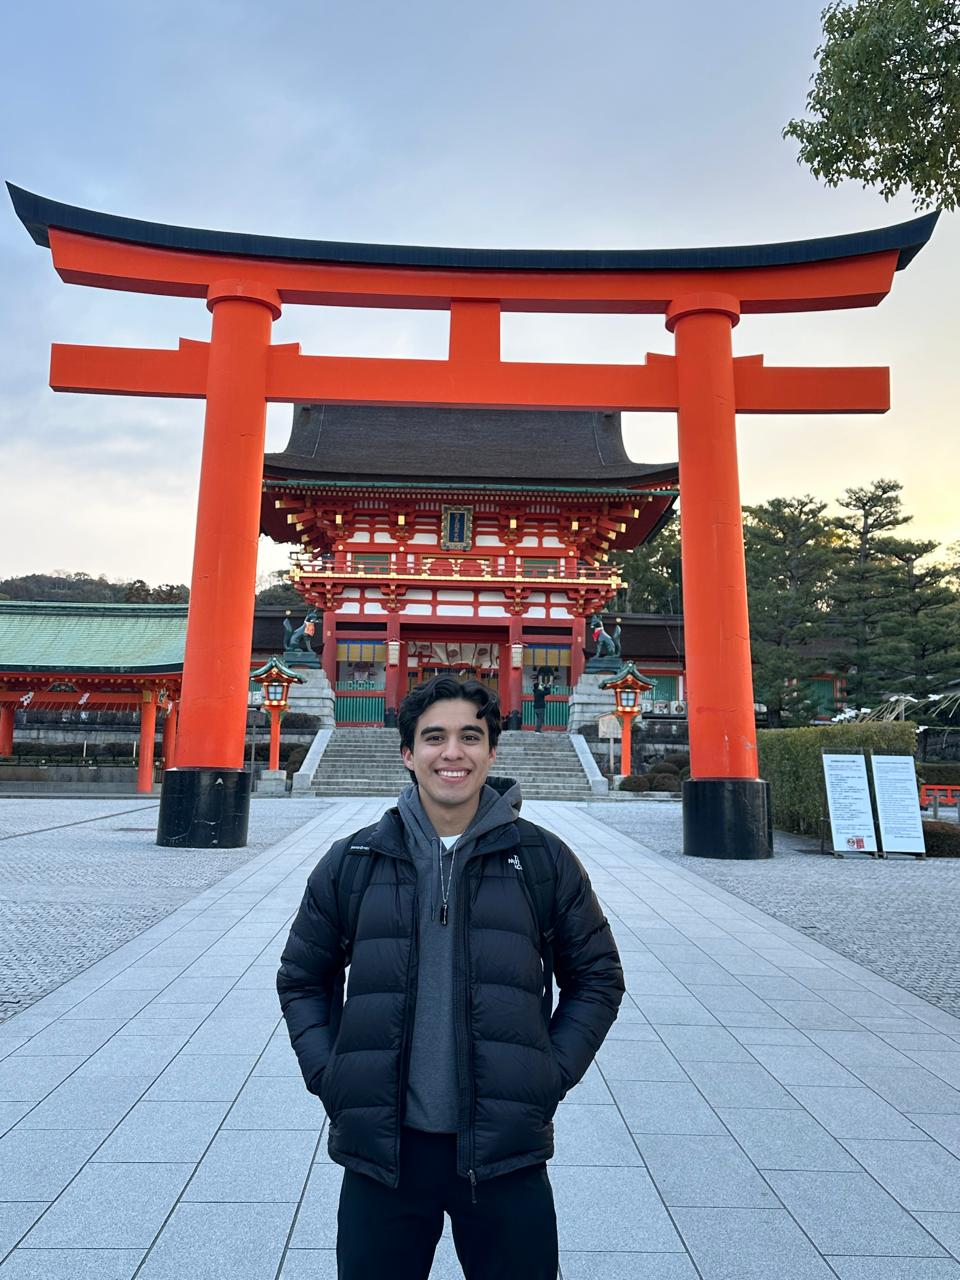
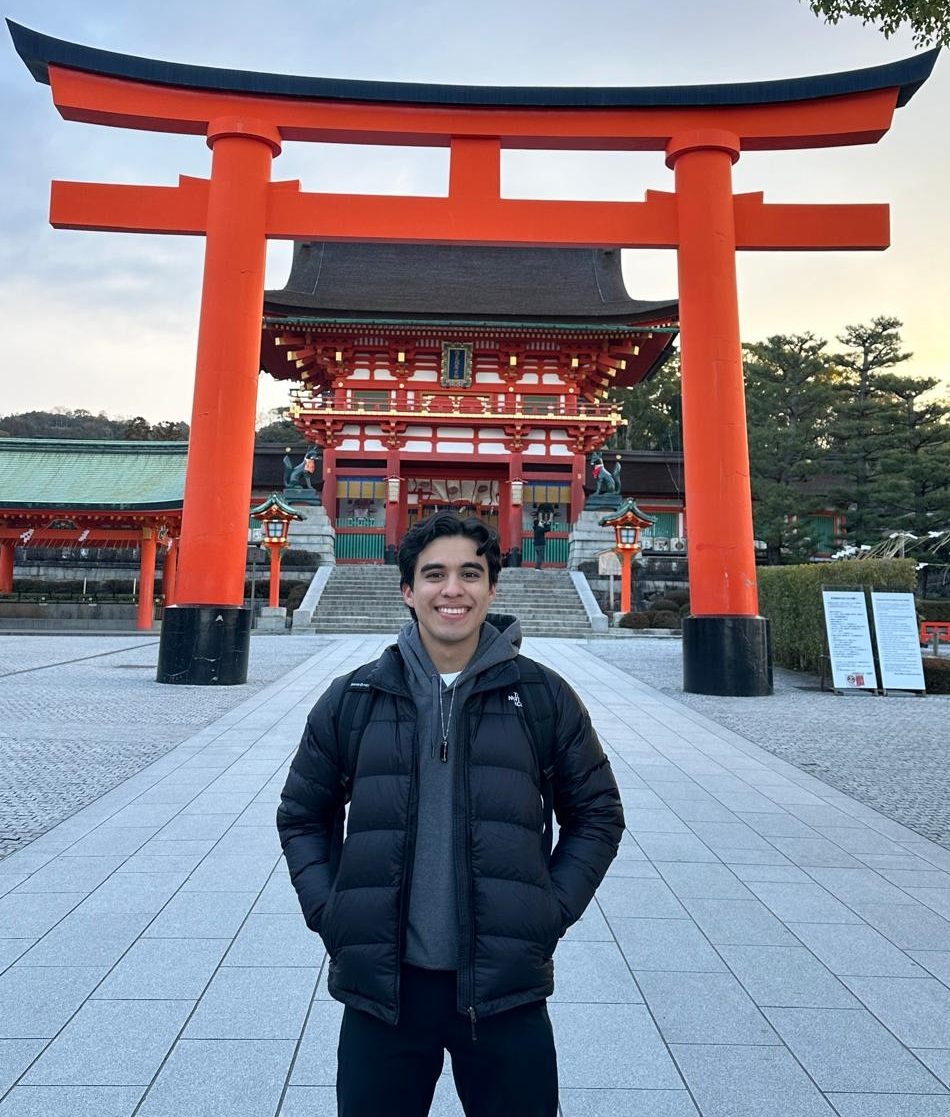
update about section

diff --git a/css/templatemo-style.css b/css/templatemo-style.css
@@ -6,29 +6,49 @@ https://templatemo.com/tm-458-lavish
 		
 */
 
+/* About section with image on the right */
 #about {
-    background: url('../images/home-bg.jpg') no-repeat center center;
-    background-size: cover;
-    color: #fff;
     padding: 100px 0;
-    position: relative;
 }
 
-#about::before {
-    content: '';
-    position: absolute;
-    top: 0;
-    left: 0;
-    right: 0;
-    bottom: 0;
-    background-color: rgba(0, 0, 0, 0.5); /* Overlay for readability */
-    z-index: 1;
+.about-content {
+    display: flex;
+    align-items: center;
+    justify-content: space-between;
+    gap: 20px; /* Space between text and image */
+    flex-wrap: wrap; /* Makes the layout responsive */
 }
 
-#about .container {
-    position: relative;
-    z-index: 2;
+.about-text {
+    flex: 1; /* Text takes 50% of the width */
+    max-width: 50%; /* Ensures the text doesn't stretch too much */
+    color: #fff; /* Adjust text color for visibility */
 }
+
+.about-image {
+    flex: 1; /* Image takes 50% of the width */
+    max-width: 50%;
+}
+
+.about-image img {
+    width: 100%;
+    height: auto;
+    max-width: 100%;
+    border-radius: 8px; /* Optional: adds rounded corners to the image */
+}
+
+/* Optional: Add a responsive design tweak for small screens */
+@media (max-width: 768px) {
+    .about-content {
+        flex-direction: column; /* Stack text and image vertically */
+        text-align: center;
+    }
+    .about-text, .about-image {
+        max-width: 100%; /* Full width for both on small screens */
+    }
+}
+
+
 
 
 body

diff --git a/index.html b/index.html
@@ -15,9 +15,18 @@
         <!-- About Section with Background Image -->
         <div class="section" id="about">
             <div class="container">
-                <h2>ABOUT ME</h2>
-                <h4>Physics Engineer | Data Science Enthusiast</h4>
-                <p>Hello! I'm Oscar Gutierrez, a Physics Engineer specializing in Data Science and Artificial Intelligence. I'm currently studying at Tecnológico de Monterrey, and I've worked on several projects, including predictive modeling and machine learning solutions like car price prediction and Boston house price prediction.</p>
+                <div class="about-content">
+                    <!-- Text on the left -->
+                    <div class="about-text">
+                        <h2>ABOUT ME</h2>
+                        <h4>Industrial Physics Engineer | Data Science Enthusiast</h4>
+                        <p>Hello! I'm Oscar Gutierrez, an Industrial Physics Engineer specializing in Data Science and Artificial Intelligence. I'm currently studying at Tecnológico de Monterrey, and I've worked on several projects, including predictive modeling and machine learning solutions like car price prediction and Boston house price prediction.</p>
+                    </div>
+                    <!-- Image on the right -->
+                    <div class="about-image">
+                        <img src="images/home-bg.jpg" alt="Oscar Gutierrez" class="img-responsive">
+                    </div>
+                </div>
             </div>
         </div>
 
